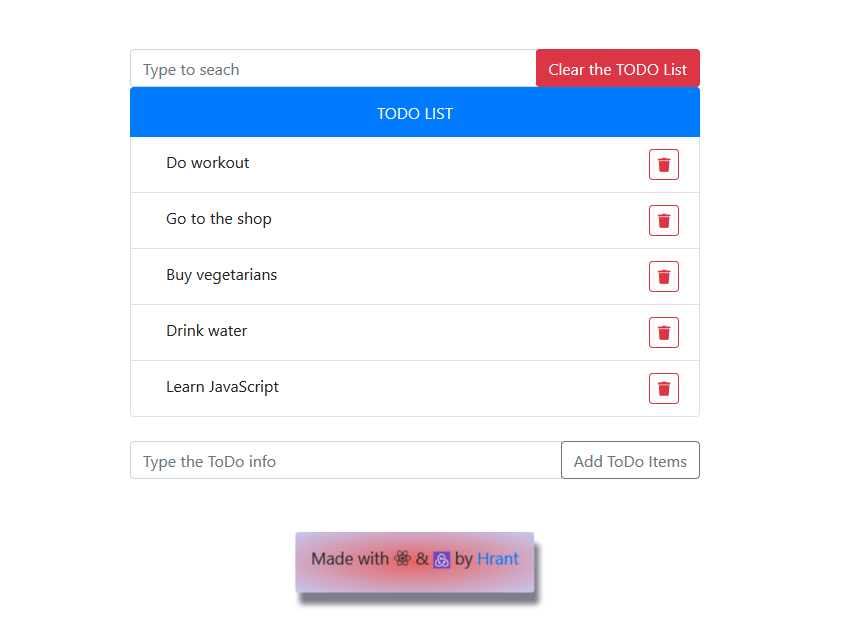
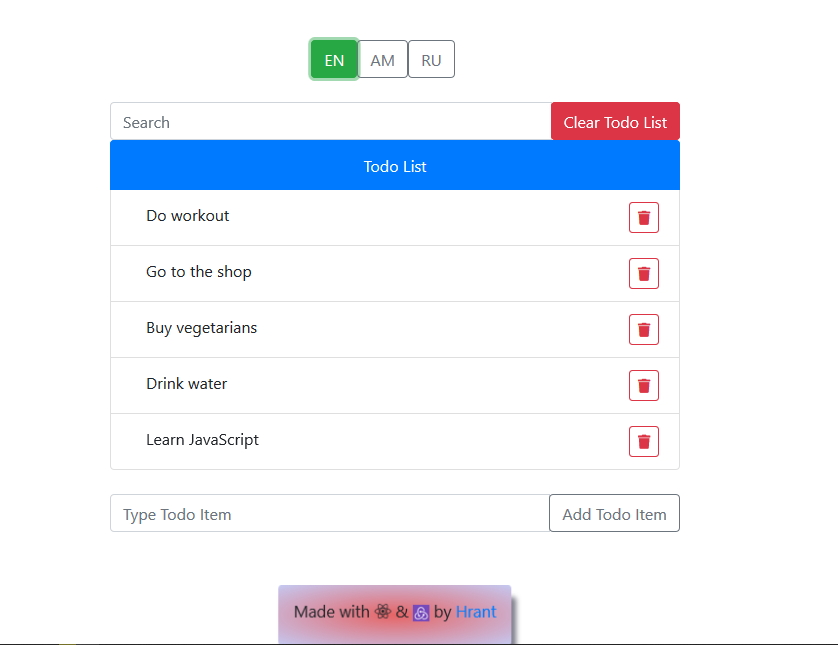
changed todolist project photo

diff --git a/src/mock/data.js b/src/mock/data.js
@@ -95,7 +95,7 @@ export const projectsData = [
     img: 'todo-list.png',
     title: 'To-Do List Project',
     info:
-      'To-do list app is a list that contain all of the tasks that you' +
+      'To-do list is an multi language app that contain all of the tasks that you' +
       ' need to complete. You may delete, create or highlight it as done.',
     info2: '',
     url: 'https://hrant-p.github.io/todo-list',
